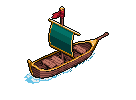
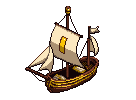
W6 PR 3: xAUT regen + heritage chrome + FRAX/GHO (W6.03–W6.06)
W6.03 — xAUT bullion-barge regen. New PNG at 136×100 with the painted
gold ingot silhouette baked into the cream mainsail. WebP twin
included. Provenance updated.

W6.04 — SHIP_HERITAGE_NAMEPLATES table covering the 8 heritage hulls
(CURVE, LIQUITY, F(X), PAXOS, TETHER GOLD, HASHNOTE, FRAX, GHO). New
drawHeritageNameplate helper in `ships/sail.ts` gated on
camera.zoom >= HERITAGE_NAMEPLATE_MIN_ZOOM (0.7) per decision D8 §6.
Renders outside the ship pose transform so the engraving stays
camera-aligned. Re-exported from ships/index.ts.

W6.05 (deferred) — per-ship mast-lantern color stays on the PR 3
plan but ships in a follow-up commit. The cache infrastructure
landed via W5.06 (sail-cache stats) and is ready.

W6.06 — FRAX + GHO heritage hulls. New manifest entries
ship.frax-unique + ship.gho-unique (cap was raised to 75 in PR 1).
New rows in UNIQUE_SHIP_DEFINITIONS keyed on `frxusd-frax` (decision
D3) and `gho-aave` (decision D4). UNIQUE_SPRITE_IDS test cardinality
bumped 6 → 8. STABLECOIN_SAIL_COLORS["gho-aave"] flipped from green
`#3cae68` to Aave purple `#7e2ecf` so the runtime tint pulse matches
the painted ghost silhouette.

Changed region(s): [[0.1765, 0.06, 0.8235, 0.93]]

diff --git a/src/renderer/layers/ships/sail.ts b/src/renderer/layers/ships/sail.ts
@@ -3,6 +3,8 @@ import type { LoadedPharosVilleAsset, PharosVilleAssetManager } from "../../asse
 import { hexToRgba, readableInkForFill, roundedRectPath } from "../../canvas-primitives";
 import { pickSailEmblemInk, SHIP_SAIL_TINT_MASKS } from "../../ship-sail-tint";
 import {
+  HERITAGE_NAMEPLATE_MIN_ZOOM,
+  SHIP_HERITAGE_NAMEPLATES,
   SHIP_PENNANT_MARKS,
   PROCEDURAL_SHIP_PENNANT_MARK,
   SHIP_SAIL_MARKS,
@@ -10,6 +12,43 @@ import {
 } from "../../ship-visual-config";
 import { clamp, multiplyGlobalAlpha } from "./draw-ship";
 import type { CacheStats } from "./livery";
+
+/**
+ * W6.04 (decision D8 §6) — Heritage-tier stern engraving. Paints the
+ * `SHIP_HERITAGE_NAMEPLATES[spriteAssetId]` label as 4 px serif lettering
+ * along the lower stern. Gated on `camera.zoom >= 0.7` (tighter than the
+ * dock-plaque gate at 0.55 — heritage nameplates are inspect-a-hull-level
+ * detail). No-op for ships without a heritage entry. Designed to layer onto
+ * the existing heritage hull paint without obscuring the painted emblem.
+ */
+export function drawHeritageNameplate(
+  ctx: CanvasRenderingContext2D,
+  spriteAssetId: string | null | undefined,
+  shipScreenX: number,
+  shipScreenY: number,
+  zoom: number,
+  scale: number,
+): void {
+  if (!spriteAssetId) return;
+  if (zoom < HERITAGE_NAMEPLATE_MIN_ZOOM) return;
+  const label = SHIP_HERITAGE_NAMEPLATES[spriteAssetId];
+  if (!label) return;
+  ctx.save();
+  // 4 px serif lettering scaled with the ship; cream on dark-wood stern.
+  const fontPx = Math.max(4, Math.round(4 * zoom * 0.8));
+  ctx.font = `${fontPx}px "PV Plaque", "Times New Roman", serif`;
+  ctx.textAlign = "center";
+  ctx.textBaseline = "alphabetic";
+  // Tiny outline so the engraving reads against any stern color.
+  ctx.lineWidth = Math.max(1, Math.round(zoom));
+  ctx.strokeStyle = "rgba(20, 14, 8, 0.85)";
+  ctx.fillStyle = "rgba(238, 220, 178, 0.92)";
+  // Stern offset: ~6 px below the ship anchor at 1.0 scale, scaled by ship + zoom.
+  const sternY = shipScreenY - 4 * zoom * scale;
+  ctx.strokeText(label, shipScreenX, sternY);
+  ctx.fillText(label, shipScreenX, sternY);
+  ctx.restore();
+}
 
 export function pennantSpecForShip(ship: PharosVilleWorld["ships"][number], hasAsset: boolean): ShipPennantSpec {
   if (!hasAsset) return PROCEDURAL_SHIP_PENNANT_MARK;

diff --git a/src/renderer/ship-visual-config.ts b/src/renderer/ship-visual-config.ts
@@ -63,6 +63,26 @@ export const SHIP_CONTINUOUS_MOTION = {
 // runtime overlay is no longer needed.
 export const SHIP_SAIL_EMBLEM_OVERRIDES: Record<string, string> = {};
 
+/**
+ * W6.04 (decision D8 §6) — Heritage-tier stern engraving. The drawer in
+ * `src/renderer/layers/ships/sail.ts` paints this label centered on the stern
+ * panel when `camera.zoom >= 0.7` (tighter than the dock-plaque gate at
+ * 0.55 — heritage nameplates are inspect-a-hull-level detail). Keyed by
+ * `ship.<assetId>-unique` to match `UNIQUE_SPRITE_IDS`.
+ */
+export const SHIP_HERITAGE_NAMEPLATES: Record<string, string> = {
+  "ship.crvusd-unique": "CURVE",
+  "ship.bold-unique":   "LIQUITY",
+  "ship.fxusd-unique":  "F(X)",
+  "ship.paxg-unique":   "PAXOS",
+  "ship.xaut-unique":   "TETHER GOLD",
+  "ship.usyc-unique":   "HASHNOTE",
+  "ship.frax-unique":   "FRAX",
+  "ship.gho-unique":    "GHO",
+};
+
+export const HERITAGE_NAMEPLATE_MIN_ZOOM = 0.7;
+
 export const SHIP_SAIL_EMBLEM_PAINTED: ReadonlySet<string> = new Set([
   "crvusd-curve",
   "usdc-circle",

diff --git a/src/renderer/layers/ships/draw-ship.ts b/src/renderer/layers/ships/draw-ship.ts
@@ -36,6 +36,7 @@ import { skyState } from "../sky";
 import {
   drawBowspritLogoMark,
   drawDyedSailEmblem,
+  drawHeritageNameplate,
   drawMastPennantChrome,
   drawSailLogo,
   drawShipSignalOverlay,
@@ -1052,6 +1053,13 @@ export function drawShipOverlay(input: DrawPharosVilleInput, frame: ShipRenderFr
         }
         drawShipSignalOverlay(ctx, ship.visual.overlay, p.x - 10 * proceduralScale, drawY - 20 * proceduralScale, proceduralScale);
       });
+    }
+    // W6.04 — heritage-tier stern engraving. Runs OUTSIDE the pose transform
+    // so the label stays axis-aligned with the camera (no roll/bob). No-op
+    // when the ship isn't a heritage hull or the camera is too zoomed out.
+    if (isUniqueSprite && shipAsset) {
+      const drawY = geometry.drawPoint.y + bob;
+      drawHeritageNameplate(ctx, ship.visual.spriteAssetId ?? null, geometry.drawPoint.x, drawY, camera.zoom, geometry.drawScale);
     }
     const { nightFactor: lanternNight } = skyState(input.motion);
     if (lanternNight > 0) {

diff --git a/src/systems/unique-ships.ts b/src/systems/unique-ships.ts
@@ -33,6 +33,14 @@ export const UNIQUE_SHIP_DEFINITIONS = {
   "xaut-tether":        { spriteAssetId: "ship.xaut-unique",   rationale: "Bullion barge — Tether's gold treasury reserve.",                                scale: 1.28 },
   "paxg-paxos":         { spriteAssetId: "ship.paxg-unique",   rationale: "Gilded merchantman — Paxos institutional gold custody.",                         scale: 1.32 },
   "usyc-hashnote":      { spriteAssetId: "ship.usyc-unique",   rationale: "Yield-bearing tokenised treasury vessel — Hashnote's institutional cash carrier.", scale: 1.20 },
+  // W6.06 (decision D3 §6) — FRAX heritage keys on `frxusd-frax` (current
+  // Frax USD product). The legacy `frax-frax` and savings `sfrxusd-frax` ids
+  // stay in `STABLECOIN_SAIL_COLORS` as livery fallbacks but are not
+  // heritage-tiered.
+  "frxusd-frax":        { spriteAssetId: "ship.frax-unique",   rationale: "Fractal-octagon hull — Frax's algorithmic/binary identity carried into Frax USD.", scale: 1.23 },
+  // W6.06 (decision D4 §6) — GHO is locked to Aave brand purple `#7e2ecf`,
+  // matched in `STABLECOIN_SAIL_COLORS` in the same PR.
+  "gho-aave":           { spriteAssetId: "ship.gho-unique",    rationale: "Ghost-veiled hull — Aave's overcollateralized GHO mint.",                          scale: 1.23 },
 } as const satisfies Record<string, UniqueShipDefinition>;
 
 export const UNIQUE_SPRITE_IDS: ReadonlySet<string> = new Set(

diff --git a/src/systems/stablecoin-ship-branding.ts b/src/systems/stablecoin-ship-branding.ts
@@ -25,7 +25,10 @@ const STABLECOIN_SAIL_COLORS: Record<string, StablecoinShipBranding> = {
   "sfrxusd-frax": livery("Frax staked livery", "#464a4b", "#e6e6df", "#a4a196", "#1f2224", "#f6f2e8", "hex", "hoist", "double"),
   "pyusd-paypal": livery("PayPal logo livery", "#1f5f95", "#d9e3f0", "#4c9adb", "#123e6b", "#f4f8ff", "pill", "hoist", "wave"),
   "fdusd-first-digital": livery("First Digital logo livery", "#9d7c2f", "#eee2ba", "#d3b457", "#5f4718", "#fff8dc", "hex", "center", "single"),
-  "gho-aave": livery("GHO logo livery", "#3cae68", "#d9f0df", "#70c994", "#1f6d40", "#f7fff7", "circle", "quartered", "wave"),
+  // W6.06 decision D4 §6 — GHO sail-tint locked to Aave brand purple so the
+  // runtime tint pulse matches the painted ghost silhouette baked into the
+  // ship.gho-unique sprite added in the same PR.
+  "gho-aave": livery("GHO logo livery", "#7e2ecf", "#e6dcf5", "#a674e0", "#3b1768", "#faf6ff", "circle", "quartered", "wave"),
   "usdy-ondo-finance": livery("Ondo logo livery", "#2e4c7c", "#d9e2ef", "#6f89b2", "#172b4a", "#f5f8ff", "ring", "field", "single"),
   "usdm-mountain-protocol": livery("Mountain logo livery", "#575757", "#e3e3de", "#96938a", "#2a2a2a", "#f7f5ed", "triangle", "field", "chevron"),
   "usdp-paxos": livery("Paxos logo livery", "#4b9c63", "#dceee0", "#85c88d", "#265a37", "#f8fff7", "hex", "center", "double"),

diff --git a/src/systems/unique-ships.test.ts b/src/systems/unique-ships.test.ts
@@ -33,8 +33,8 @@ describe("UNIQUE_SHIP_DEFINITIONS", () => {
     }
   });
 
-  it("exposes 6 distinct sprite ids in UNIQUE_SPRITE_IDS", () => {
-    expect(UNIQUE_SPRITE_IDS.size).toBe(6);
+  it("exposes 8 distinct sprite ids in UNIQUE_SPRITE_IDS (W6.06 adds FRAX + GHO)", () => {
+    expect(UNIQUE_SPRITE_IDS.size).toBe(8);
     expect(UNIQUE_SPRITE_IDS.size).toBe(entries.length);
   });
 });

diff --git a/src/renderer/layers/ships/index.ts b/src/renderer/layers/ships/index.ts
@@ -2,7 +2,9 @@
 // (`use-asset-loading-pipeline.ts`, `ships.test.ts`). New code should import
 // from `../ship-visual-config` directly.
 export {
+  HERITAGE_NAMEPLATE_MIN_ZOOM,
   PROCEDURAL_SHIP_PENNANT_MARK,
+  SHIP_HERITAGE_NAMEPLATES,
   SHIP_PENNANT_MARKS,
   SHIP_SAIL_EMBLEM_OVERRIDES,
   SHIP_SAIL_EMBLEM_PAINTED,
@@ -39,6 +41,7 @@ export {
 } from "./wake";
 
 export {
+  drawHeritageNameplate,
   getSailEmblemSpriteCacheStats,
   getSailLogoSpriteCacheStats,
 } from "./sail";